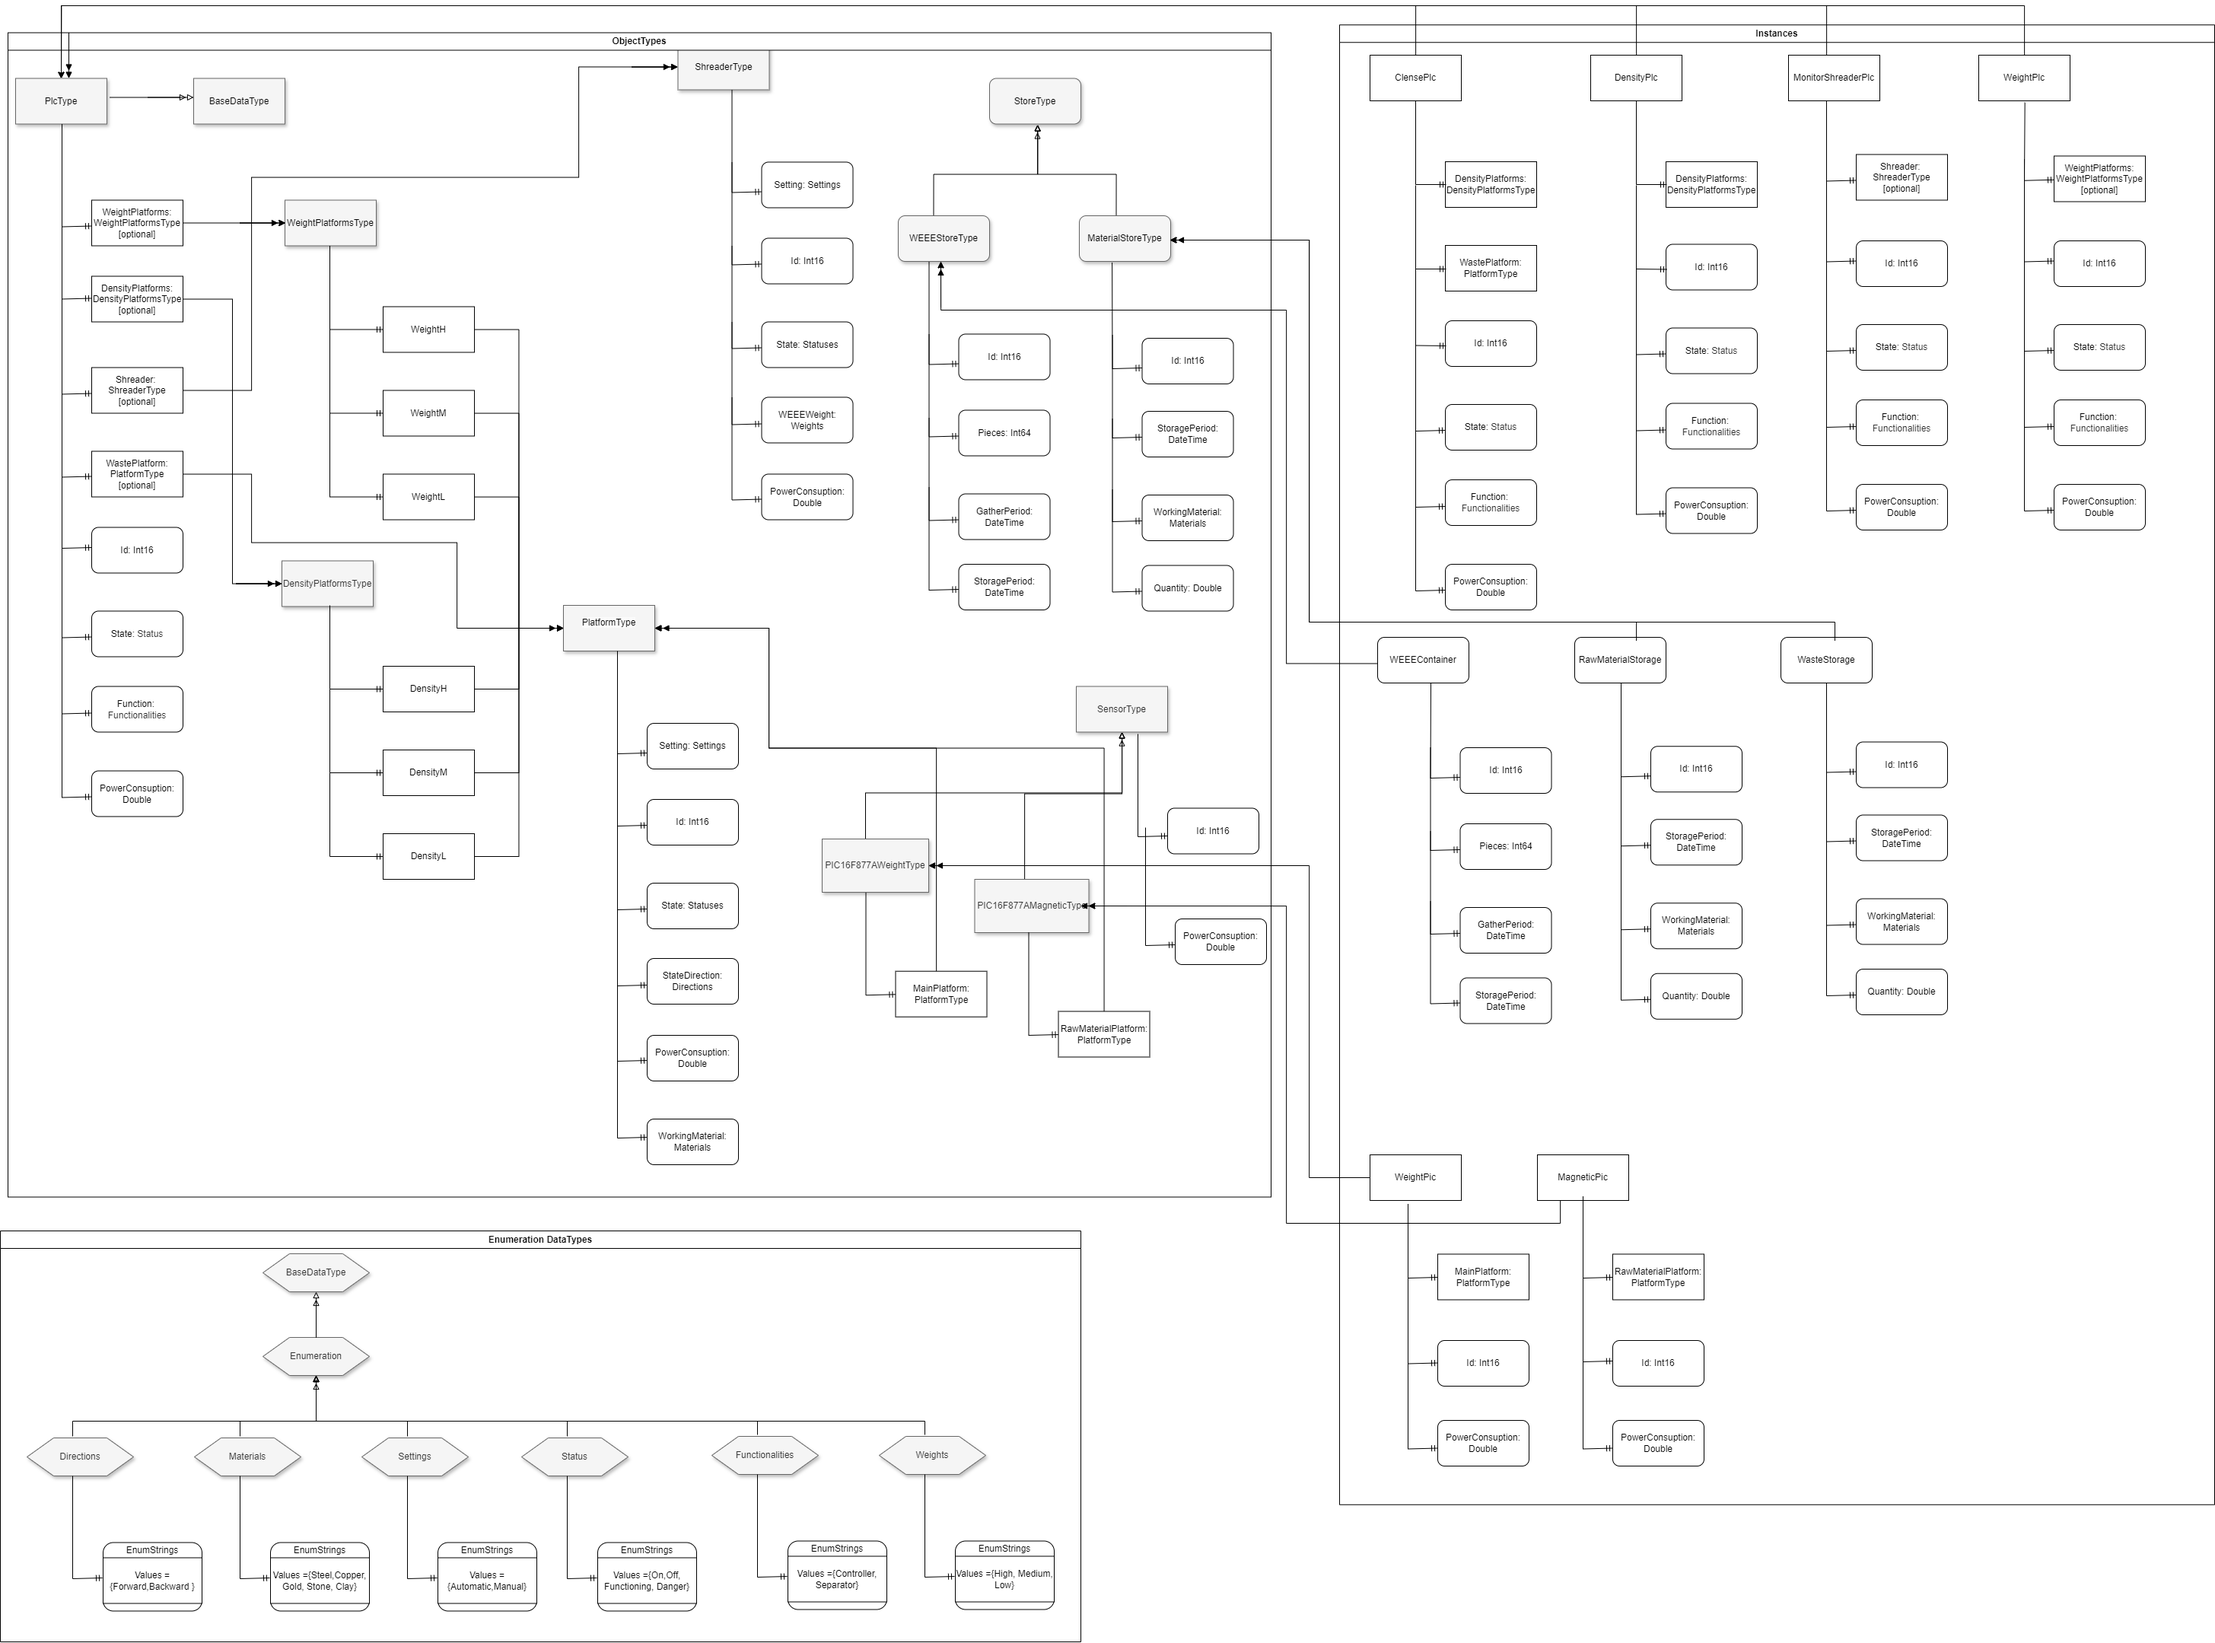
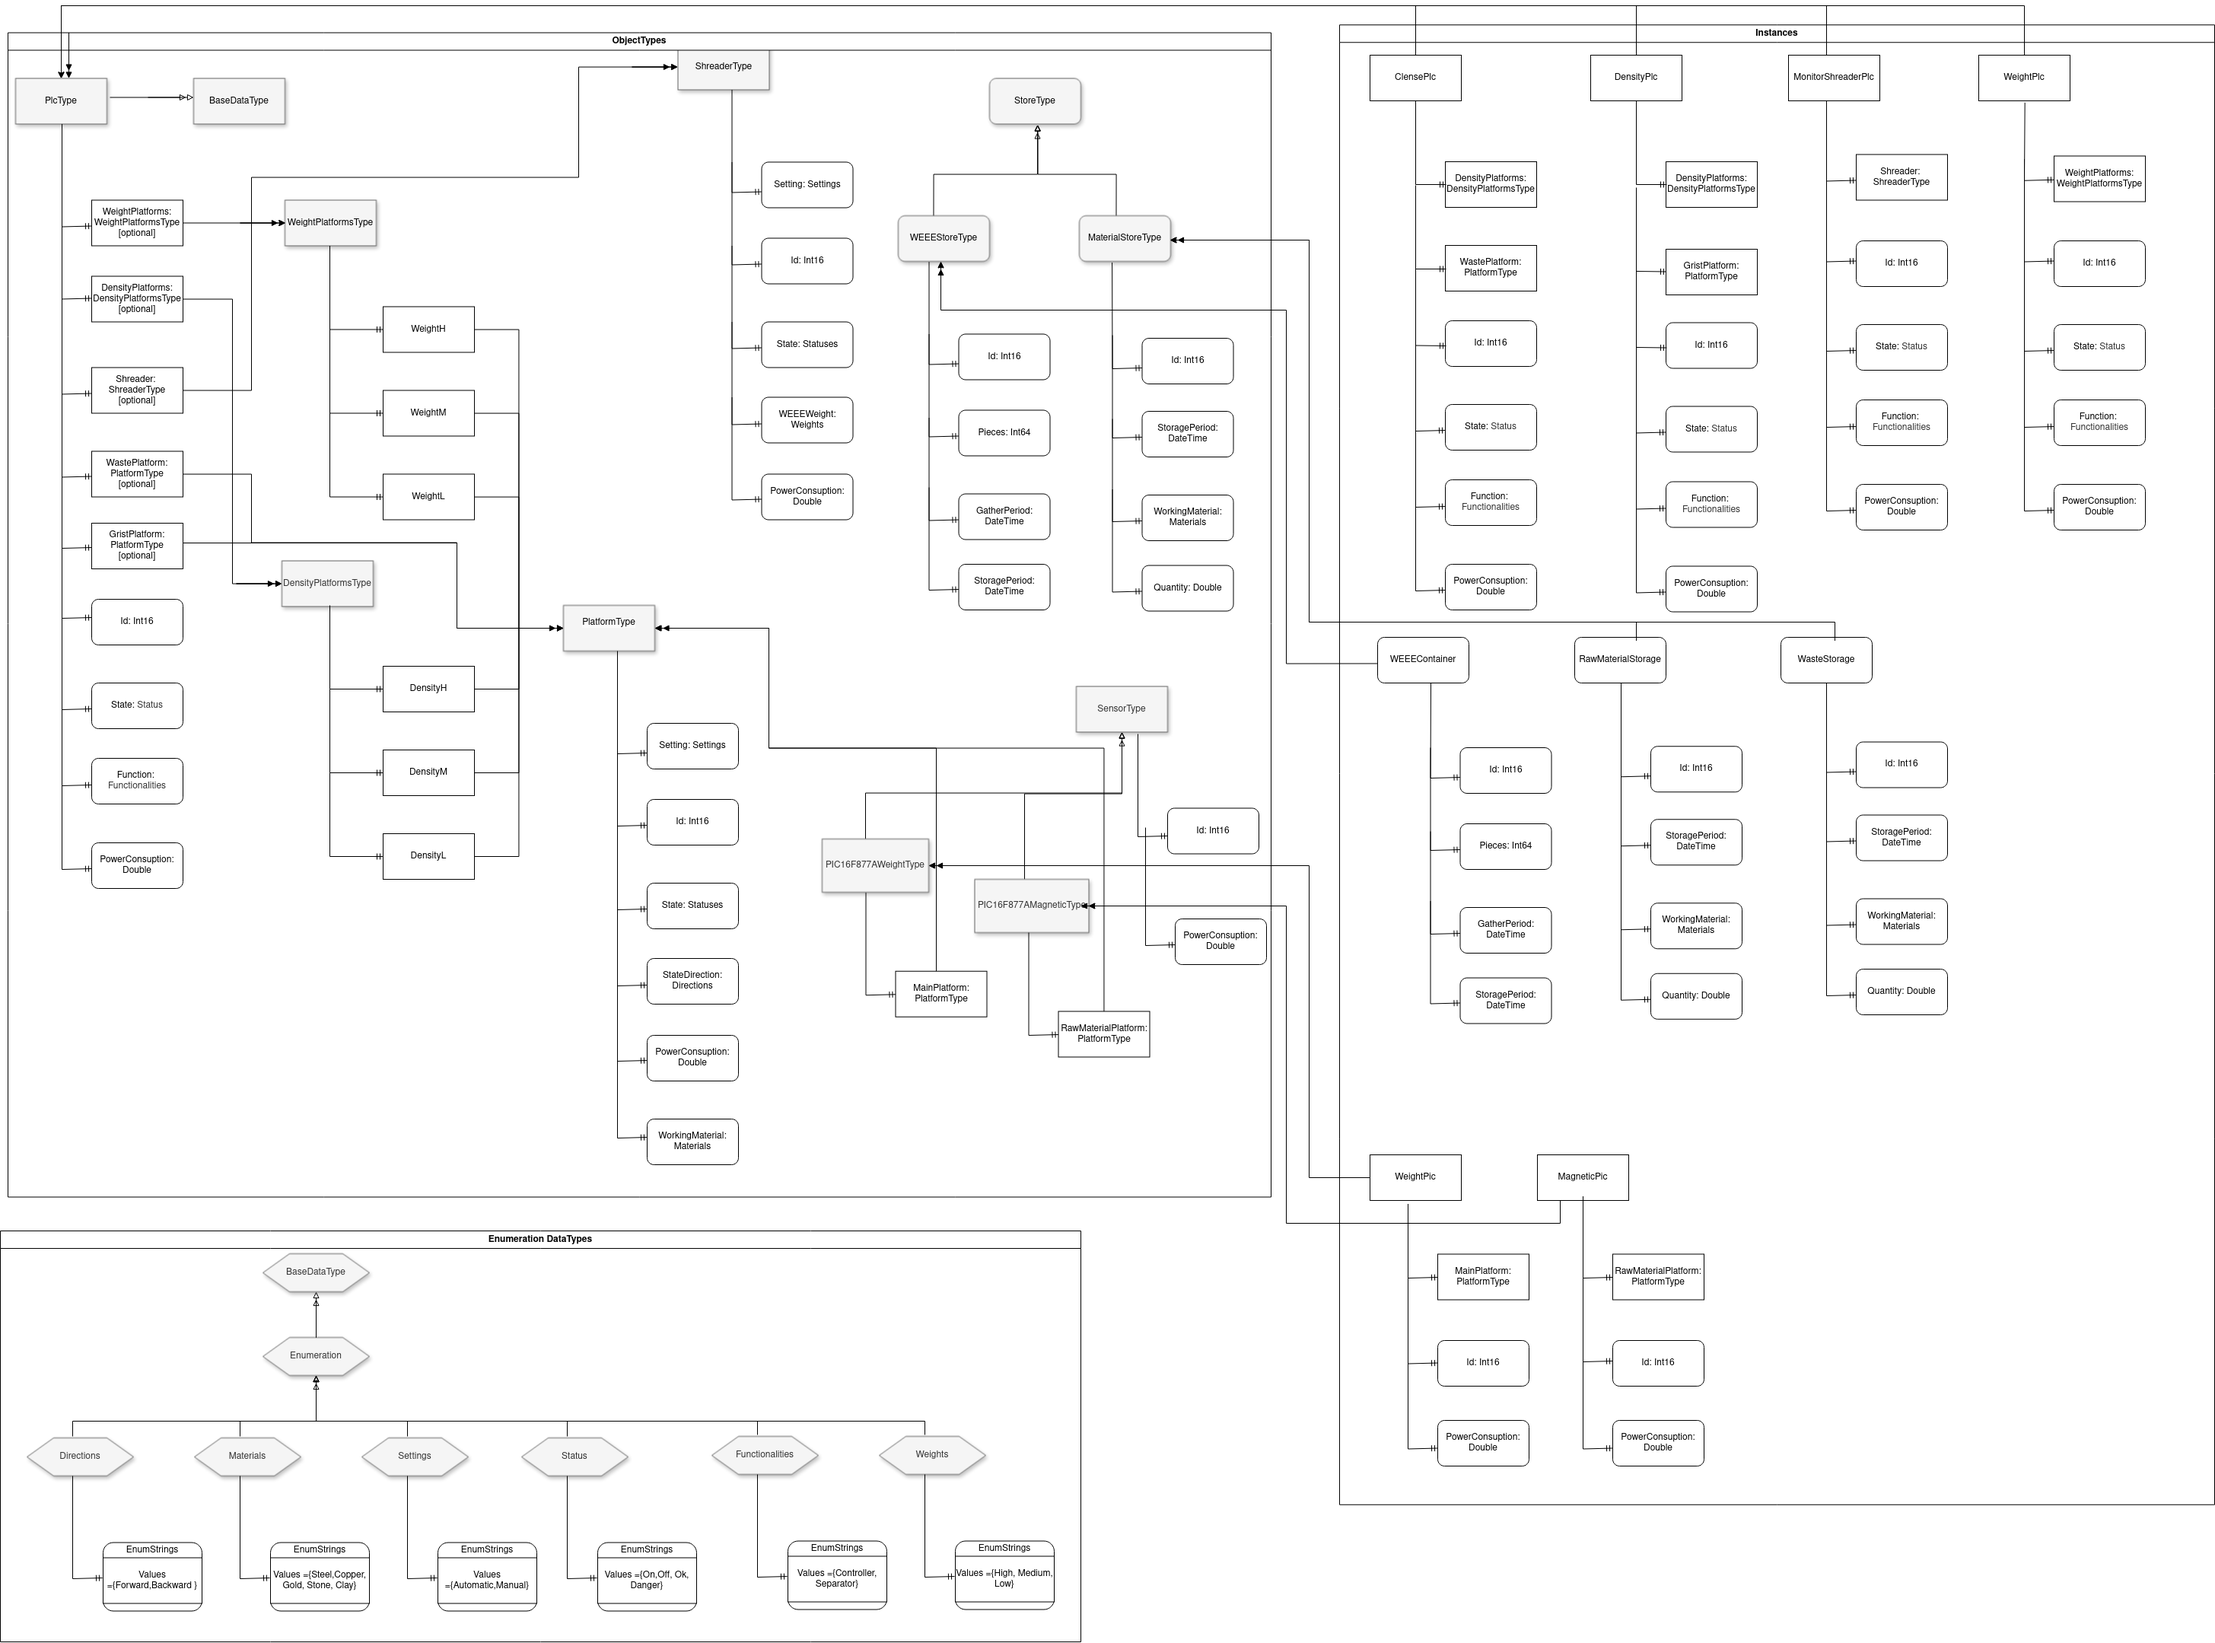
Updated diagram and opc ua server

diff --git a/Server/weeeServer.js b/Server/weeeServer.js
@@ -229,6 +229,13 @@ import { OpcUaServer } from "./opcuaServerLib.js";
         modellingRule: "Optional",
     })
 
+    namespace.addObject({
+        browseName: "GristPlatform",
+        componentOf: plcType,
+        typeDefinition: platformType,
+        modellingRule: "Optional",
+    })
+
     namespace.addVariable({
         browseName: "Id",
         componentOf: plcType,
@@ -398,7 +405,7 @@ import { OpcUaServer } from "./opcuaServerLib.js";
     const densityPlc = plcType.instantiate({
         browseName: "DensityPlc",
         organizedBy: addressSpace.rootFolder.objects,
-        optionals: ["DensityPlatforms"]
+        optionals: ["DensityPlatforms", "GristPlatform"]
     })
 
     const monitorShreaderPlc = plcType.instantiate({
